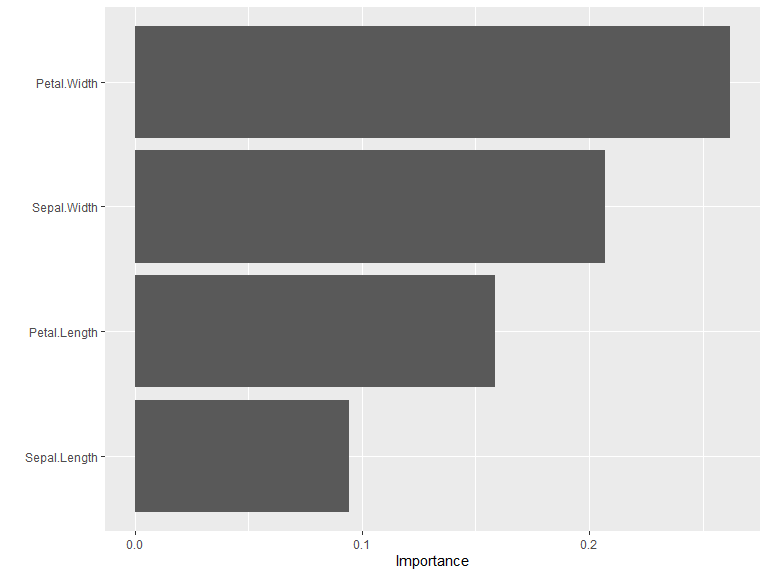
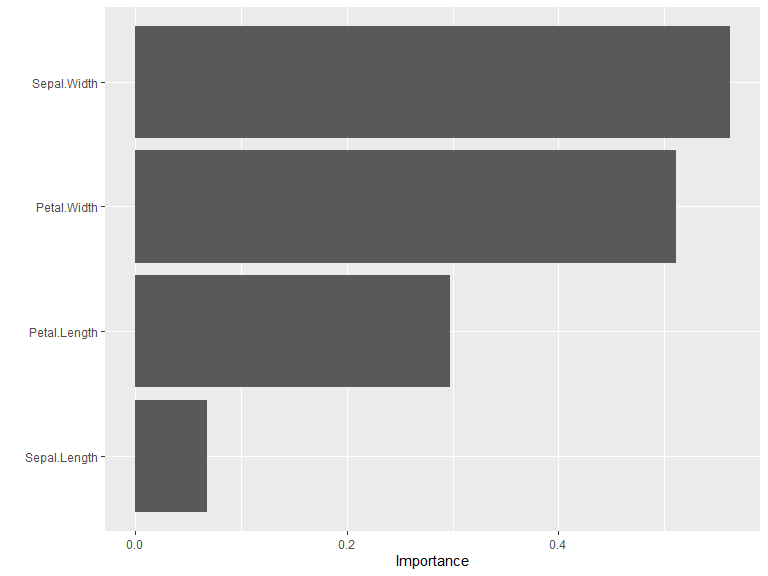
Update README

diff --git a/README.md b/README.md
@@ -35,7 +35,8 @@ deep learning models within the familiar `{tidymodels}` ecosystem.
 - Code generation of `{torch}` expression
 - Multiple architectures available: feedforward networks (MLP/DNN/FFNN)
   and recurrent variants (RNN, LSTM, GRU)
-- Native support for `{tidymodels}` workflows and pipelines
+- Native support for titanic ML frameworks (currently supports
+  `{tidymodels}`, `{mlr3}` for later) workflows and pipelines
 - Fine-grained control over network depth, layer sizes, and activation
   functions
 - GPU acceleration supports via `{torch}` tensors
@@ -192,7 +193,7 @@ Two kinds of `predict()` usage:
     #> actual       setosa versicolor virginica
     #>   setosa         50          0         0
     #>   versicolor      0         46         4
-    #>   virginica       0          0        50
+    #>   virginica       0          2        48
     ```
 
 2.  **With `newdata`** simply pass the new data frame as the new
@@ -206,8 +207,8 @@ Two kinds of `predict()` usage:
     #>             predicted
     #> actual       setosa versicolor virginica
     #>   setosa         10          0         0
-    #>   versicolor      0          9         1
-    #>   virginica       0          0        10
+    #>   versicolor      0         10         0
+    #>   virginica       0          1         9
     ```
 
 ### Level 3: Conventional tidymodels Integration
@@ -367,10 +368,10 @@ networks. Two primary algorithms are available:
     ``` r
     garson(model, bar_plot = FALSE)
     #>        x_names y_names  rel_imp
-    #> 1  Petal.Width       y 28.49543
-    #> 2  Sepal.Width       y 25.82405
-    #> 3 Sepal.Length       y 24.21862
-    #> 4 Petal.Length       y 21.46190
+    #> 1  Sepal.Width       y 29.04598
+    #> 2  Petal.Width       y 27.50590
+    #> 3 Sepal.Length       y 24.20982
+    #> 4 Petal.Length       y 19.23830
     ```
 
 2.  Olden’s Algorithm
@@ -378,10 +379,10 @@ networks. Two primary algorithms are available:
     ``` r
     olden(model, bar_plot = FALSE)
     #>        x_names y_names     rel_imp
-    #> 1  Petal.Width       y -0.26225266
-    #> 2  Sepal.Width       y  0.20693472
-    #> 3 Petal.Length       y -0.15842190
-    #> 4 Sepal.Length       y -0.09426378
+    #> 1  Sepal.Width       y  0.56231712
+    #> 2  Petal.Width       y -0.51113650
+    #> 3 Petal.Length       y -0.29761552
+    #> 4 Sepal.Length       y -0.06857191
     ```
 
 ### Integration with {vip}
@@ -404,22 +405,167 @@ vi(model) |>
 size. Only enable it when you plan to compute variable importance
 multiple times on the same model.*
 
-## Comparison with other packages
+<!-- ## Comparison with other packages -->
 
-| Feature | kindling | brulee | cito | luz |
-|:---|:---|:---|:---|:---|
-| **Primary Focus** | Architectural versatility & flexibility, statistical modelling, and code generation | Production-ready statistical models | Statistical inference & interpretation | Training loop abstraction |
-| **Design Philosophy** | Three-level API (code gen, training, ML framework (currently tidymodels) integration) | Batteries-included with sensible defaults | User-friendly with comprehensive xAI pipeline | High-level API reducing boilerplate |
-| **Architectures** | Versatile — Feedforward Neural Networks (DNN/FFNN/MLP), Recurrent Neural Networks (RNN, LSTM, GRU), and more (in the future) | MLP, Linear/Logistic/Multinomial regression | Fully-connected networks, CNNs | Any torch nn_module |
-| **Code Generation** | Yes (inspect & modify torch code) | No | No | No |
-| **tidymodels Integration** | Full (parsnip models & tuning) | Full (official tidymodels package) | No (standalone package) | No (standalone package) |
-| **Formula Syntax** | Yes | Yes | Yes | No (uses torch modules directly) |
-| **Layer-specific Activations** | Yes | No | No | No (also uses torch modules directly) |
-| **GPU Support** | Yes | Yes | Yes (CPU, GPU, MacOS) | Yes (automatic device placement) |
-| **Explainability/xAI** | Garson’s & Olden’s algorithms, vip integration, and more in the future | Limited | Extensive (PDP, ALE, variable importance, etc.) | No |
-| **Statistical Inference** | Not yet implemented | No | Yes (confidence intervals, p-values via bootstrap) | No |
-| **Custom Loss Functions** | Yes | No | Yes | Yes |
-| **For whom?** | Wants versatile architectures (more in the future), fine-grained control, tidymodels users | Wants standard supervised learning, stable production models | Do ecological modeling, interpretable models, statistical inference | Wants custom architectures, users needing human-friendly training loop control |
+<!-- ```{r, echo=FALSE} -->
+
+<!-- comparison = data.frame( -->
+
+<!--     Feature = c( -->
+
+<!--         "**Primary Focus**", -->
+
+<!--         "**Design Philosophy**", -->
+
+<!--         "**Architectures**", -->
+
+<!--         "**Code Generation**", -->
+
+<!--         "**tidymodels Integration**", -->
+
+<!--         "**Formula Syntax**", -->
+
+<!--         "**Layer-specific Activations**", -->
+
+<!--         "**GPU Support**", -->
+
+<!--         "**Explainability/xAI**", -->
+
+<!--         "**Statistical Inference**", -->
+
+<!--         "**Custom Loss Functions**", -->
+
+<!--         "**For whom?**" -->
+
+<!--     ), -->
+
+<!--     kindling = c( -->
+
+<!--         "Architectural versatility & flexibility, statistical modelling, and code generation", -->
+
+<!--         "Three-level API (code gen, training, ML framework (currently tidymodels) integration)", -->
+
+<!--         "Versatile — Feedforward Neural Networks (DNN/FFNN/MLP), Recurrent Neural Networks (RNN, LSTM, GRU), and more (in the future)", -->
+
+<!--         "Yes (inspect & modify torch code)", -->
+
+<!--         "Full (parsnip models & tuning)", -->
+
+<!--         "Yes", -->
+
+<!--         "Yes", -->
+
+<!--         "Yes", -->
+
+<!--         "Garson's & Olden's algorithms, vip integration, and more in the future", -->
+
+<!--         "Not yet implemented", -->
+
+<!--         "Yes", -->
+
+<!--         "Wants versatile architectures (more in the future), fine-grained control, tidymodels users" -->
+
+<!--     ), -->
+
+<!--     brulee = c( -->
+
+<!--         "Production-ready statistical models", -->
+
+<!--         "Batteries-included with sensible defaults", -->
+
+<!--         "MLP, Linear/Logistic/Multinomial regression", -->
+
+<!--         "No", -->
+
+<!--         "Full (official tidymodels package)", -->
+
+<!--         "Yes", -->
+
+<!--         "No", -->
+
+<!--         "Yes", -->
+
+<!--         "Limited", -->
+
+<!--         "No", -->
+
+<!--         "No", -->
+
+<!--         "Wants standard supervised learning, stable production models" -->
+
+<!--     ), -->
+
+<!--     cito = c( -->
+
+<!--         "Statistical inference & interpretation", -->
+
+<!--         "User-friendly with comprehensive xAI pipeline", -->
+
+<!--         "Fully-connected networks, CNNs", -->
+
+<!--         "No", -->
+
+<!--         "No (standalone package)", -->
+
+<!--         "Yes", -->
+
+<!--         "No", -->
+
+<!--         "Yes (CPU, GPU, MacOS)", -->
+
+<!--         "Extensive (PDP, ALE, variable importance, etc.)", -->
+
+<!--         "Yes (confidence intervals, p-values via bootstrap)", -->
+
+<!--         "Yes", -->
+
+<!--         "Do ecological modeling, interpretable models, statistical inference" -->
+
+<!--     ), -->
+
+<!--     luz = c( -->
+
+<!--         "Training loop abstraction", -->
+
+<!--         "High-level API reducing boilerplate", -->
+
+<!--         "Any torch nn_module", -->
+
+<!--         "No", -->
+
+<!--         "No (standalone package)", -->
+
+<!--         "No (uses torch modules directly)", -->
+
+<!--         "No (also uses torch modules directly)", -->
+
+<!--         "Yes (automatic device placement)", -->
+
+<!--         "No", -->
+
+<!--         "No", -->
+
+<!--         "Yes", -->
+
+<!--         "Wants custom architectures, users needing human-friendly training loop control" -->
+
+<!--     ), -->
+
+<!--     stringsAsFactors = FALSE -->
+
+<!-- ) -->
+
+<!-- knitr::kable( -->
+
+<!--     comparison,  -->
+
+<!--     col.names = c("Feature", "kindling", "brulee", "cito", "luz"), -->
+
+<!--     label = "Table of comparison" -->
+
+<!-- ) -->
+
+<!-- ``` -->
 
 ## References
 
